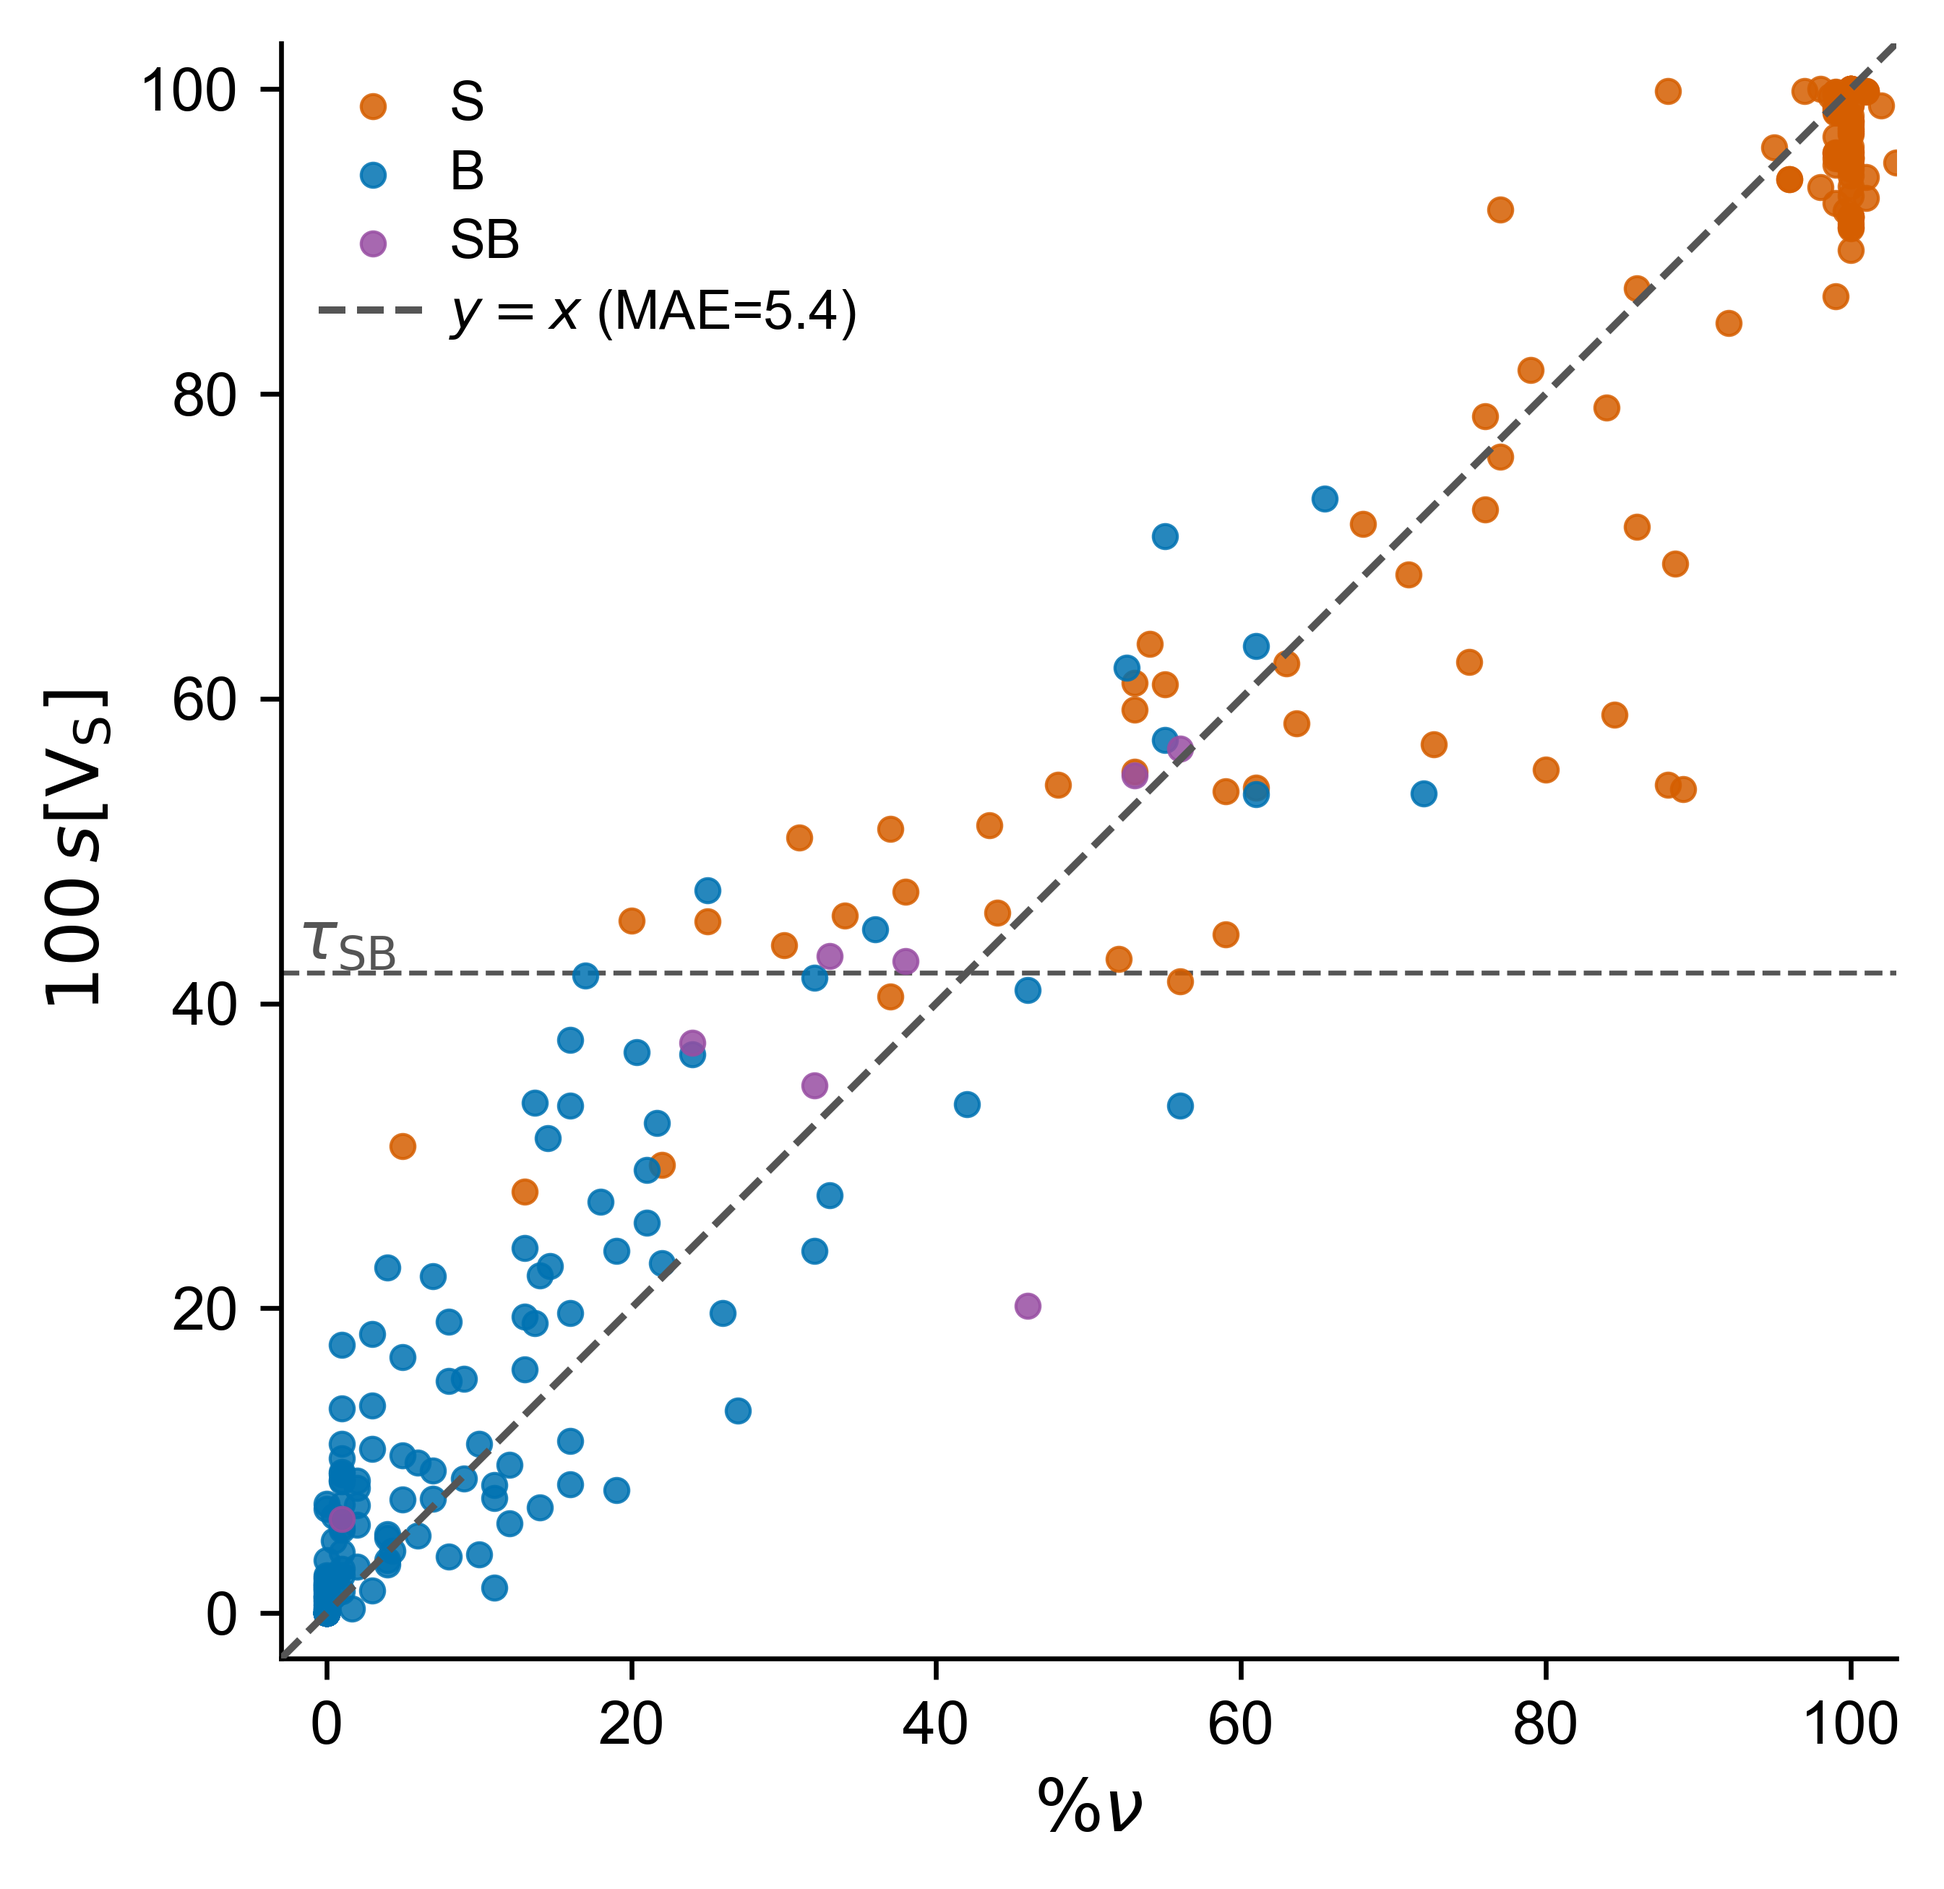
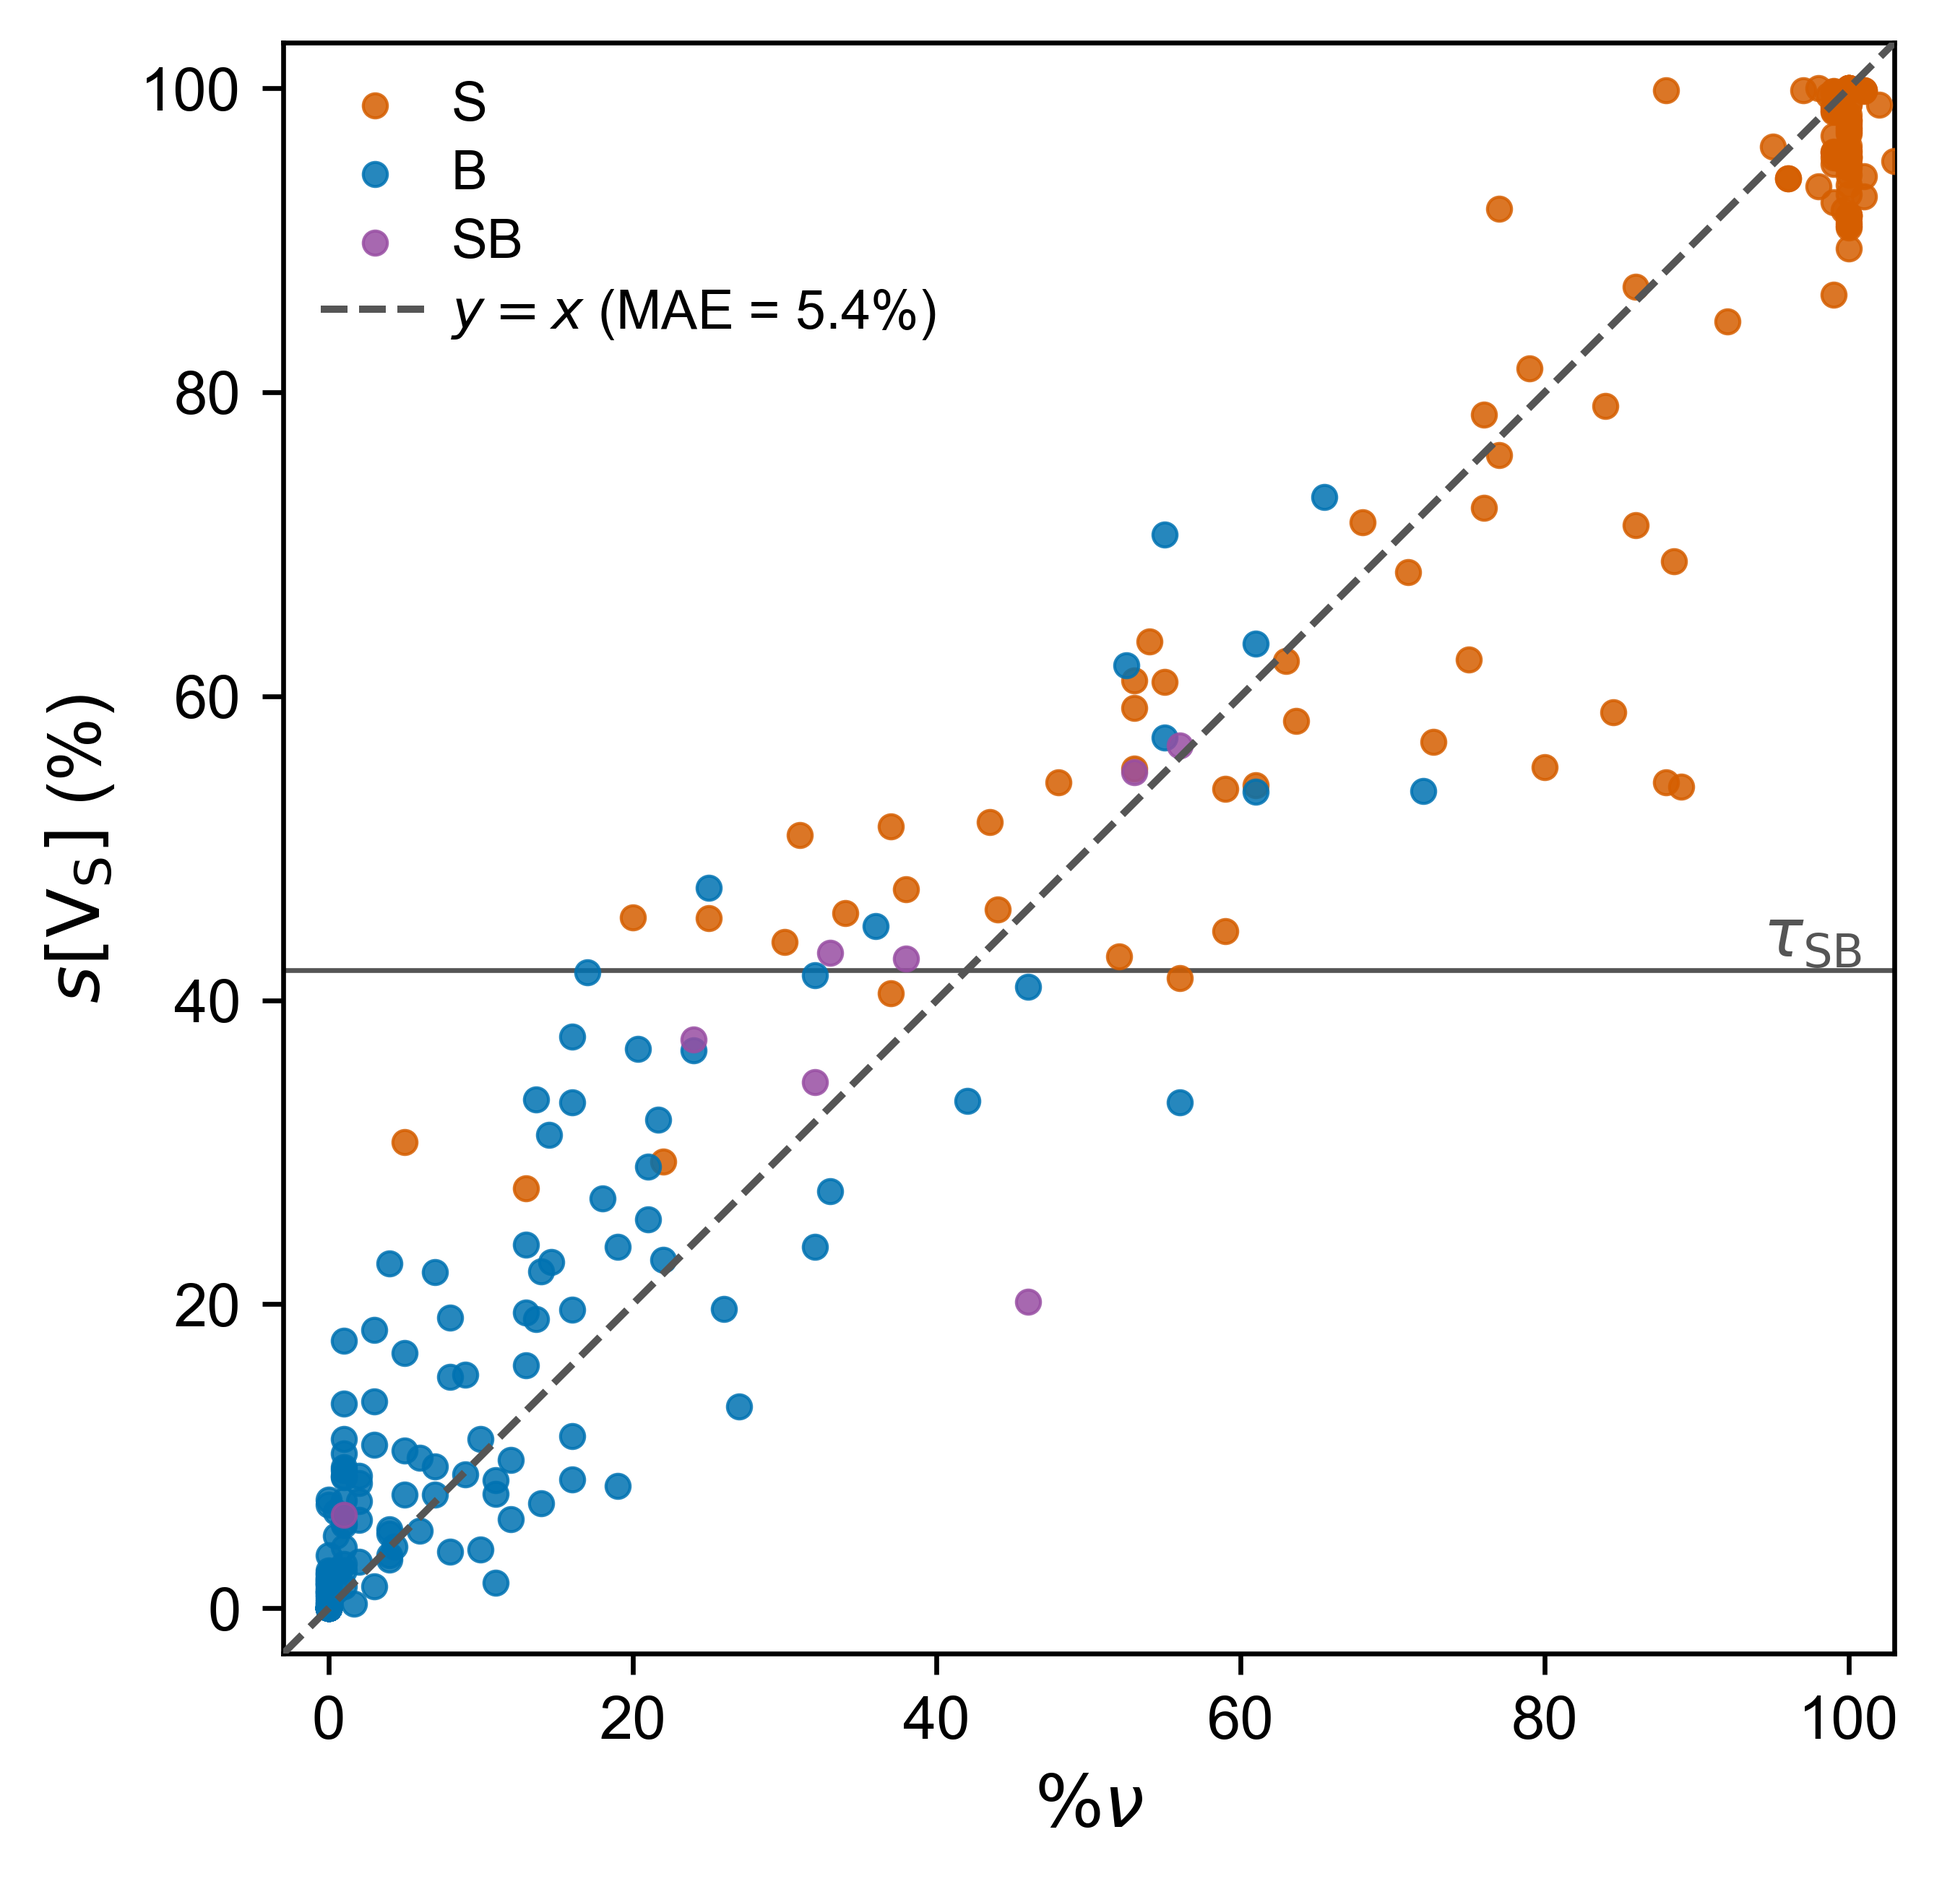
Polish fig:ped_vs_vscore: percent y-label, solid tau_SB line, full border
- ylabel default -> "s[V_S] (%)" (was the raw 100*s[V_S] math label)
- tau_SB line switched from dashed to solid so it's visually distinct
  from the dashed y=x parity line, label moved to the right side
- legend MAE entry formatted "MAE = 5.4%" (was "MAE=5.4")
- top/right spines turned back on for this figure only, so the square
  parity plot gets all 4 borders (fig_style() disables them globally)

diff --git a/src/figures.py b/src/figures.py
@@ -3248,7 +3248,7 @@ def plot_ped_vs_vscore(
     out_dir="data/figures",
     label="fig_ped_vs_vscore",
     tau_SB=None,
-    ylabel=r"$100\,s[\mathrm{V_S}]$",
+    ylabel=r"$s[\mathrm{V_S}]$ (%)",
     label_source_csv=None,
     color_by="reference",
 ):
@@ -3313,11 +3313,11 @@ def plot_ped_vs_vscore(
     vote sees the overridden per-row labels, matching how the canonical path
     already collapses labels baked in at tau_SB=0.50.
 
-    ``ylabel`` overrides the y-axis label (default the canonical
-    100*s[V_S] math label; e.g. archive_unweighted callers pass a label
-    that says "Unweighted" to distinguish this from the canonical
-    mu-weighted figure of the same name -- keep any override on the same
-    x100 percentage scale as the plotted data).
+    ``ylabel`` overrides the y-axis label (default "s[V_S] (%)"; e.g.
+    archive_unweighted callers pass a label that says "Unweighted" to
+    distinguish this from the canonical mu-weighted figure of the same
+    name -- keep any override on the same x100 percentage scale as the
+    plotted data).
 
     ``label_source_csv``, if given, points at a DIFFERENT combined_ped_vs_
     scores.csv (matched to this one's rows by Molecule+Mode) whose own
@@ -3389,13 +3389,13 @@ def plot_ped_vs_vscore(
 
     # tau_SB reference line (this framework's own bend/stretch cutoff on the
     # y-axis quantity s[V_S], rescaled to the same x100 percentage scale as
-    # the plotted data) -- same axhline + text convention as every other
-    # tau_SB-annotated figure (e.g. plot_boxplots), NOT added to the legend
-    # (in-axes text label instead, left of the y-axis at the line's own
-    # height).
+    # the plotted data) -- a solid line (unlike every other tau_SB-annotated
+    # figure's dashed axhline) so it reads as distinct from the dashed y=x
+    # parity line sharing this axes. NOT added to the legend (in-axes text
+    # label instead, right of the plot at the line's own height).
     tau_SB_pct = th.tau_SB * 100
-    ax.axhline(tau_SB_pct, color=COLORS["threshold"], ls="--", lw=0.8, zorder=1)
-    ax.text(0.01, tau_SB_pct, r"$\tau_{\mathrm{SB}}$", ha="left", va="bottom",
+    ax.axhline(tau_SB_pct, color=COLORS["threshold"], ls="-", lw=0.8, zorder=1)
+    ax.text(0.98, tau_SB_pct, r"$\tau_{\mathrm{SB}}$", ha="right", va="bottom",
             color=COLORS["threshold"], transform=ax.get_yaxis_transform())
 
     x = df["PED_Stretch_pct"].to_numpy(float)
@@ -3408,13 +3408,17 @@ def plot_ped_vs_vscore(
     # percentage points) reported ML-parity-plot style instead of R^2.
     lims = (-3, 103)
     ax.plot(lims, lims, ls="--", lw=1.2, color=COLORS["threshold"], zorder=4,
-            label=r"$y=x$" + f" (MAE={mae:.1f})")
+            label=r"$y=x$" + f" (MAE = {mae:.1f}%)")
 
     ax.set_xlabel(r"$\%\nu$")
     ax.set_ylabel(ylabel)
     ax.set_xlim(*lims)
     ax.set_ylim(*lims)
     ax.set_aspect("equal", adjustable="box")
+    # Full 4-sided border on this square parity plot -- _style() turns off
+    # the top/right spines globally, override back on for this figure only.
+    ax.spines["top"].set_visible(True)
+    ax.spines["right"].set_visible(True)
     ax.legend(loc="upper left", frameon=False, handletextpad=0.4,
               labelspacing=0.35, borderaxespad=0.3, fontsize=LEGEND_FONTSIZE)
 
